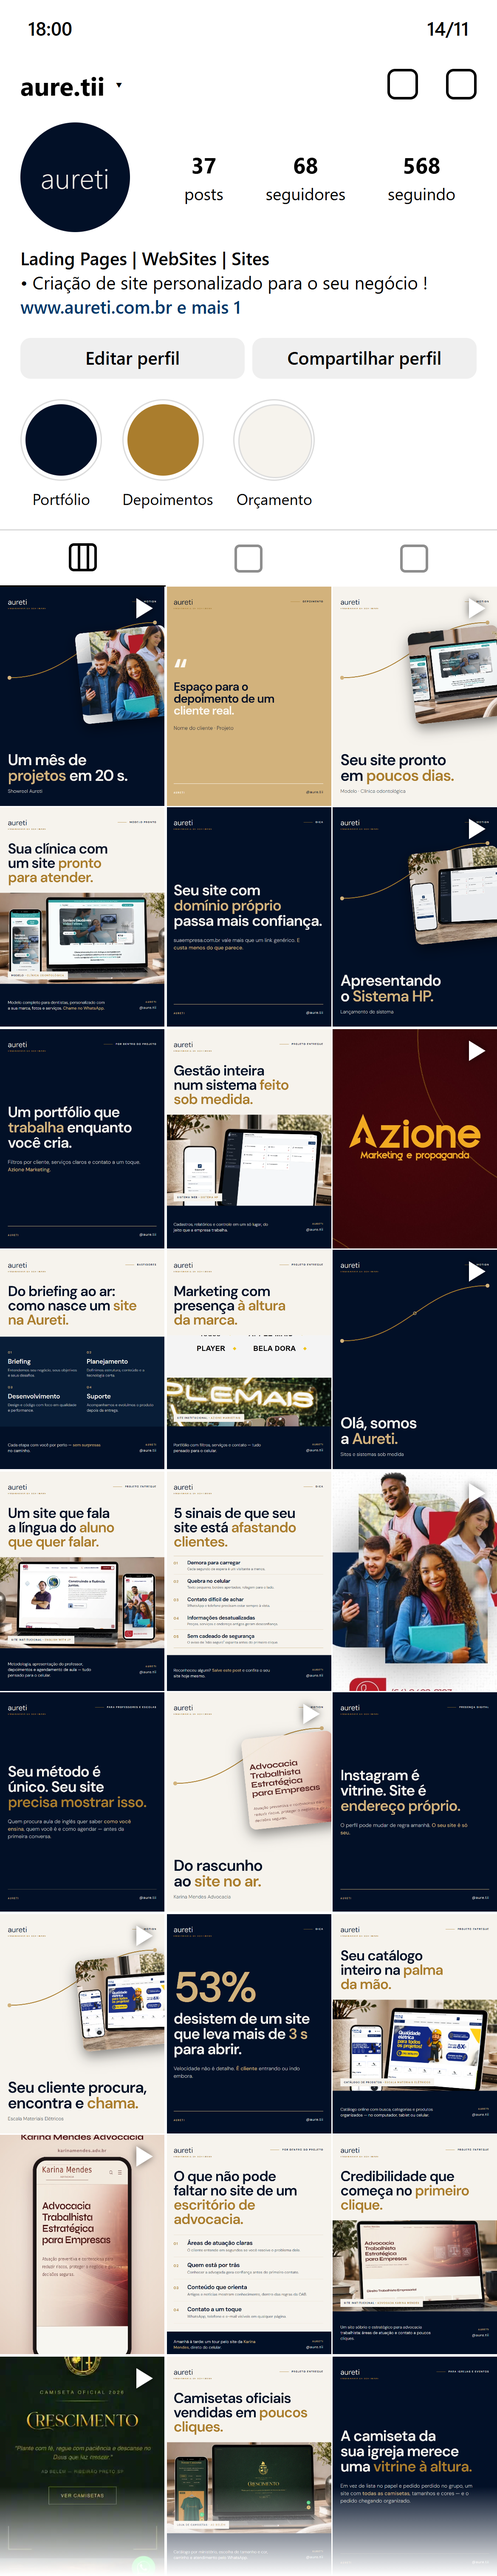
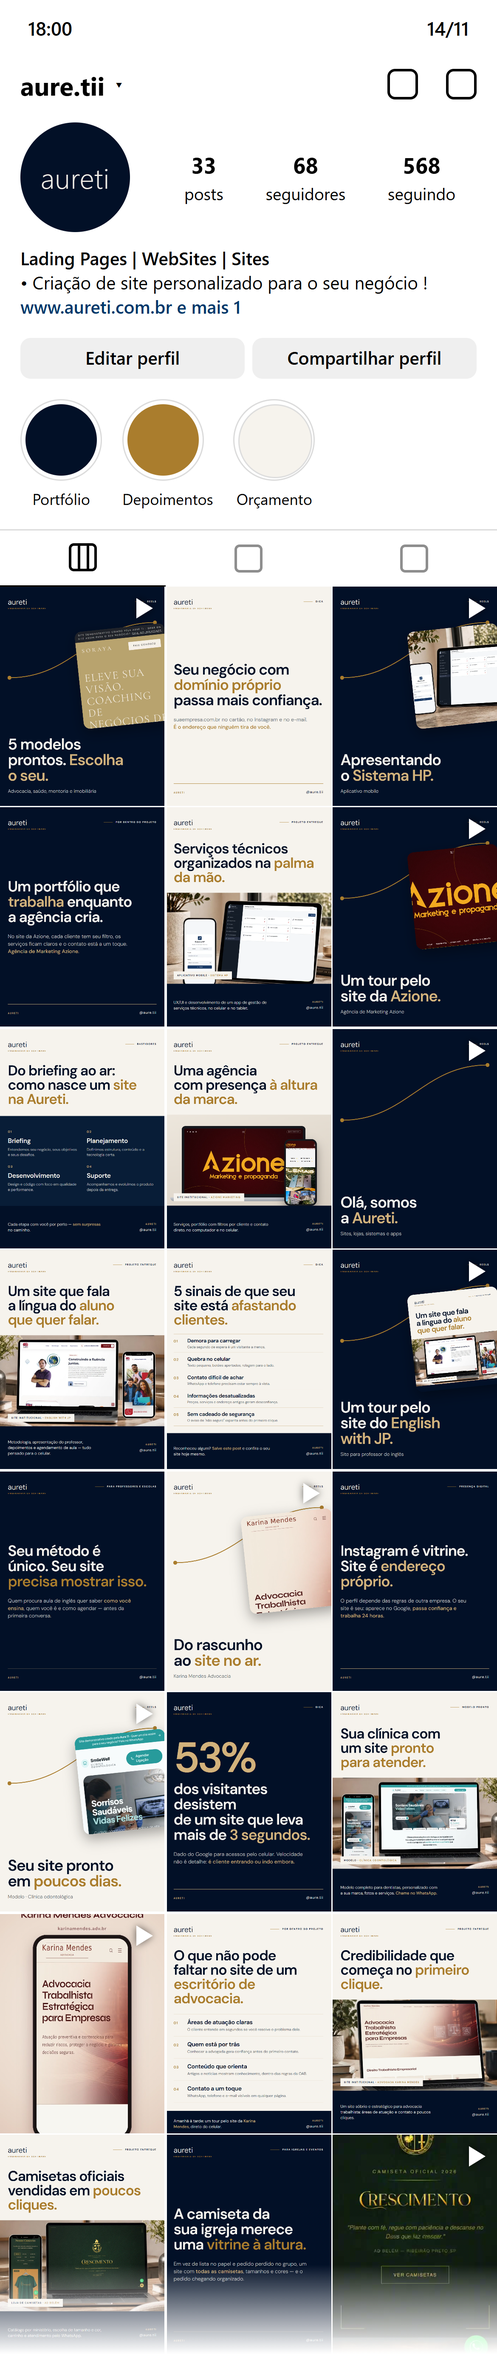
Simulação do perfil e histórico com a troca Escala/dentista

diff --git a/historico.md b/historico.md
@@ -68,3 +68,8 @@ O post "5 sinais" saiu por engano em 19/10 e foi arquivado. Fica guardado para u
 | 14/11 | Modelos prontos à venda | Motion | 2026-11-14-modelos-motion.mp4 |
 
 Motions: fontes em `template/motion/` (um HTML por motion, `render.cjs` grava em MP4; `modelos.html` é a vitrine dos modelos à venda; `showreel.sh` monta um showreel de projetos, não usado em 14/11). Posts estáticos: `template/posts-mes.cjs` + `template/render-png.cjs`.
+
+### Alteração em 20/10/2026
+- Escala adiada para a primeira semana de janeiro de 2027: mockup 04/01 12h (story 18h), motion 06/01 18h (stories 9h e 18h), Reels extra 08/01 19h. Arquivos em `posts/2027-01-04/`.
+- Modelo de clínica antecipado para as vagas: mockup 21/10 12h e motion 23/10 18h, com stories de dentista em 21/10 18h e 23/10 9h e 18h.
+- 11/11 e 12/11 ficaram sem post no feed.
